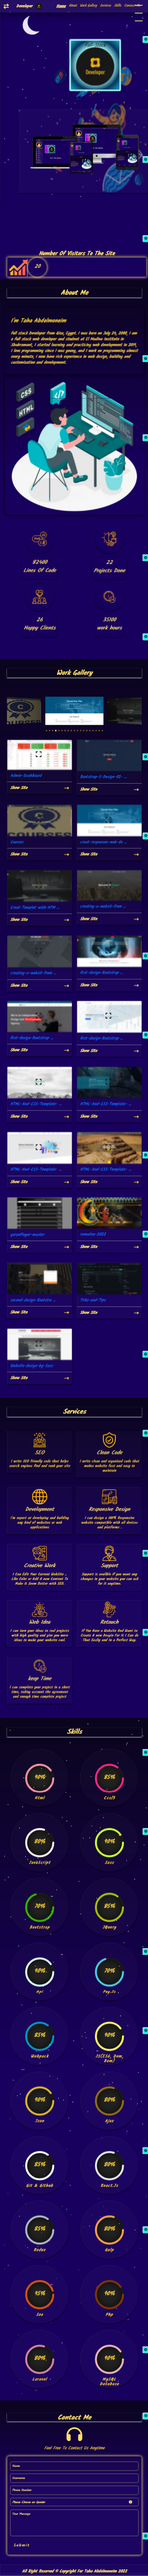
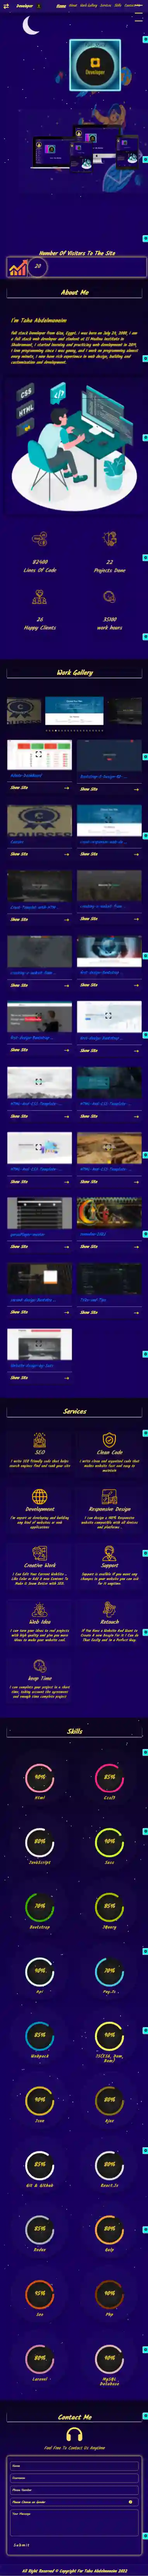
seo images

diff --git a/src/js/main.js b/src/js/main.js
@@ -1,7 +1,6 @@
 import "./layoutJs/images";
 import "../css/main.scss";
 
-
 function addListenerMulti(element, eventNames, listener) {
   var events = eventNames.split(" ");
   for (var i = 0, iLen = events.length; i < iLen; i++) {
@@ -39,22 +38,25 @@ var mousePosition,
   target = null;
 var boxInfo = document.querySelector(".box-info");
 
-["mousedown", "touchstart"].forEach(function (e) {
-  boxInfo.addEventListener(
-    e,
-    function (e) {
-      // cursor: grabbing;
-      if (e.touches) {
-        // var touch = e.touches[0];
-        target = e.touches[0].target.parentElement.parentElement;
-      }
-      boxInfo.classList.add("move");
-      isDown = true;
-      offset = [boxInfo.offsetLeft - e.clientX, boxInfo.offsetTop - e.clientY];
-    },
-    true
-  );
-});
+["mousedown", "touchstart"].forEach(
+  function (e) {
+    boxInfo.addEventListener(
+      e,
+      function (e) {
+        // cursor: grabbing;
+        if (e.touches) {
+          // var touch = e.touches[0];
+          target = e.touches[0].target.parentElement.parentElement;
+        }
+        boxInfo.classList.add("move");
+        isDown = true;
+        offset = [boxInfo.offsetLeft - e.clientX, boxInfo.offsetTop - e.clientY];
+      },
+      { passive: true }
+    );
+  },
+  { passive: true }
+);
 
 ["mouseup", "touchend"].forEach(function (e) {
   boxInfo.addEventListener(
@@ -67,7 +69,7 @@ var boxInfo = document.querySelector(".box-info");
     true
   );
 });
-boxInfo.addEventListener("touchmove", handleTouchMove, false);
+boxInfo.addEventListener("touchmove", handleTouchMove, { passive: true });
 
 function handleTouchMove(e) {
   e.stopPropagation();
@@ -131,7 +133,15 @@ let numberAboutF = () => {
 // End Number About
 // Start light services title
 let servicesTitle = document.getElementById("services-title");
+let particles = document.createElement("script");
+setAttributes(particles, {
+  src: "https://cdn.jsdelivr.net/particles.js/2.0.0/particles.min.js",
+  defer: "defer",
+  async: "",
+});
+
 servicesTitle.addEventListener("click", () => {
+  document.scripts[document.scripts.length - 1].before(particles);
   import("./layoutJs/app").then(() => console.log(""));
 });
 // End light services title
@@ -273,6 +283,19 @@ let barScroll = document.querySelector(".bar-scroll"),
 buttonScroll.onclick = () => {
   window.scrollTo({ top: 0 });
 };
+
+let swiper = document.createElement("script");
+setAttributes(swiper, {
+  src: "https://unpkg.com/swiper/swiper-bundle.min.js",
+  defer: "defer",
+  async: "",
+});
+let swiperStyle = document.createElement("link");
+setAttributes(swiperStyle, {
+  href: "https://unpkg.com/swiper/swiper-bundle.min.css",
+  rel: "stylesheet",
+});
+
 window.addEventListener("scroll", () => {
   barScroll.style.cssText = `width:${Math.trunc(
     (window.pageYOffset / (document.documentElement.scrollHeight - window.outerHeight)) * 100
@@ -286,6 +309,8 @@ window.addEventListener("scroll", () => {
     workGallery.dataset.scroll == "in" &&
     workGallery.classList[workGallery.classList.length - 1] !== "in"
   ) {
+    document.head.querySelector("title").after(swiperStyle);
+    document.scripts[document.scripts.length - 1].before(swiper);
     getRepos();
     workGallery.classList.add("in");
   }
@@ -357,24 +382,41 @@ let intrvelSubmitF = () => {
     }
   }, 1000);
 };
+let mail = document.createElement("script");
+setAttributes(mail, {
+  src: "https://smtpjs.com/v3/smtp.js",
+  defer: "defer",
+  async: "",
+});
+let sweetalert2 = document.createElement("script");
+setAttributes(sweetalert2, {
+  src: "//cdn.jsdelivr.net/npm/sweetalert2@11",
+  defer: "defer",
+  async: "",
+});
 
 form.onsubmit = (e) => {
   e.preventDefault();
-  sendEmail();
-  submit.style.cssText = "pointer-events: none; background: #ffffff8c !important";
-  let spans = submit.querySelectorAll("span");
-  spans.forEach((el) => {
-    el.style.opacity = "0";
-  });
-  intrvelSubmitF();
+  document.scripts[document.scripts.length - 1].before(mail);
+  document.scripts[document.scripts.length - 1].before(sweetalert2);
   setTimeout(() => {
+    sendEmail();
+    submit.style.cssText = "pointer-events: none; background: #ffffff8c !important";
+    let spans = submit.querySelectorAll("span");
     spans.forEach((el) => {
-      el.style.opacity = "1";
+      el.style.opacity = "0";
     });
-    submit.style.cssText = "pointer-events: auto;";
-  }, 11000);
+    intrvelSubmitF();
+    setTimeout(() => {
+      spans.forEach((el) => {
+        el.style.opacity = "1";
+      });
+      submit.style.cssText = "pointer-events: auto;";
+    }, 11000);
+  }, 1000);
 };
 // End form Send mail
+// console.log(document.head)
 // Start Slider Images Projects
 let SliderImages = () => {
   var swiper = new Swiper(".mySwiper", {
@@ -427,6 +469,5 @@ inputCheck.onclick = (e) => {
     ele.setAttribute("checked", "");
   }
 };
-
 
 import "./jquery";

diff --git a/src/css/sass/layout/_index.scss b/src/css/sass/layout/_index.scss
@@ -14,6 +14,13 @@ body {
   will-change: auto;
   overflow-x: clip;
 }
+img {
+  max-width: 100%;
+}
+.logo-img {
+  width: 32px;
+  height: 32px;
+}
 .pointer {
   position: fixed;
   width: 15px;
@@ -271,7 +278,7 @@ section.aside-nav {
       right: -44px;
       top: 22px;
       i {
-        color: var(--main-color3);
+        color: var(--main-color1);
         font-size: 26px;
         transition: var(--transition);
         &:hover {
@@ -635,6 +642,7 @@ main.content {
     opacity: 0.5;
     top: 200px;
     img {
+      width: 511px;
       height: 100%;
     }
   }
@@ -695,6 +703,8 @@ main.content {
           display: block;
           margin-top: -30px;
           margin-left: 18px;
+          width: 200px;
+          height: 200px;
         }
         .animation {
           width: 320px;
@@ -796,11 +806,18 @@ main.content {
         margin-top: -23px;
         margin-left: 80px;
       }
+      figure {
+        > img {
+          width: 100%;
+          height: 100%;
+        }
+      }
       figure:nth-child(1) {
         width: 250px;
-        height: 400px;
+        height: 200px;
         left: 200px;
         top: 100px;
+
         .images-show-website {
           width: 225px;
           left: 13px;
@@ -809,14 +826,16 @@ main.content {
           top: 15px;
           img {
             animation: mockupFullScreen 30s linear infinite;
+            width: 255px;
+            height: 1587px;
           }
         }
       }
       figure:nth-child(2) {
         width: 250px;
-        height: 400px;
+        height: 168px;
         left: -18px;
-        top: -256px;
+        top: -60px;
         .images-show-website {
           width: 207px;
           left: 27px;
@@ -825,6 +844,8 @@ main.content {
           top: 15px;
           img {
             animation: mockupLaptop 30s linear infinite;
+            width: 207px;
+            height: 2737px;
           }
         }
       }
@@ -832,9 +853,9 @@ main.content {
         width: 80px;
         height: 400px;
         left: 423px;
-        top: -680px;
+        top: -220px;
         > img {
-          height: 35%;
+          height: 36%;
         }
         .images-show-website {
           width: 70px;
@@ -844,14 +865,16 @@ main.content {
           top: 15px;
           img {
             animation: mockupMobile 30s linear infinite;
+            width: 70px;
+            height: 2816px;
           }
         }
       }
       figure:nth-child(4) {
         width: 125px;
-        height: 155px;
+        height: 161px;
         left: 183px;
-        top: -1061px;
+        top: -620px;
         .images-show-website {
           width: 114px;
           left: 5px;
@@ -860,6 +883,8 @@ main.content {
           top: 4px;
           img {
             animation: mockupTablet 30s linear infinite;
+            width: 114px;
+            height: 1972px;
           }
         }
       }
@@ -886,7 +911,7 @@ main.content {
         text-align: start;
         img {
           width: 95px;
-          height: auto;
+          height: 93px;
           margin-left: 10px;
           margin-top: 6px;
           vertical-align: text-top;
@@ -1061,6 +1086,10 @@ main.content {
             height: 150px;
             box-shadow: 0 0.125rem 0.25rem rgba(0, 0, 0, 1);
             backdrop-filter: blur(15px);
+            img {
+              width: 100px !important;
+              height: 100px;
+            }
           }
           .work-about {
             text-align: center;
@@ -1245,6 +1274,10 @@ section.services {
         box-shadow: 0 0.125rem 0.25rem rgba(0, 0, 0, 1);
         border-radius: 6px;
         overflow: hidden;
+        img {
+          width: 50px !important;
+          height: 50px;
+        }
       }
       h2 {
         color: var(--main-color1);

diff --git a/src/js/layoutJs/images.js b/src/js/layoutJs/images.js
@@ -23,7 +23,7 @@ import "../../assets/mockup4.webp";
 import "../../assets/mockupMobile.webp";
 import "../../assets/mockupTalplet.webp";
 import "../../assets/mockupLabtop.webp";
-import "../../assets/mockupFullScreen.webp";
+import "../../assets/mockupFullScreen.jpeg";
 import "../../assets/chart-arrow.png";
 import "../../assets/img website/Admin-DashBoard.webp";
 import "../../assets/img website/Bootstrap-5-Design-02-Bondi.webp";

diff --git a/webpackConfig/webpack.common.js b/webpackConfig/webpack.common.js
@@ -44,7 +44,7 @@ module.exports = {
         use: ["babel-loader"],
       },
       {
-        test: /\.(png|jpg|ico|webp|woff(2)?|ttf|otf|eot|svg)$/,
+        test: /\.(png|jpg|jpeg|ico|webp|woff(2)?|ttf|otf|eot|svg)$/,
         type: "asset/resource",
         use: [
           {
